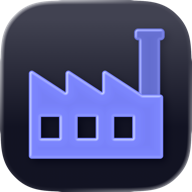
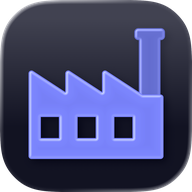
feat: show the factory glyph without its tile in the sidebar and sign-in
The sidebar and sign-in sit on the app's own background, so the tile
read as a box around the mark there. web/mark.png is the glass glyph on
a transparent background. ictool always draws the tile, so
scripts/render-icon.py renders the glyph on black and on white and takes
its alpha from the difference; the same script renders the tiled icons.

diff --git a/web/views/App.js b/web/views/App.js
@@ -184,7 +184,7 @@ function Shell() {
   const signOut = auth.value.mode === "oidc" ? "Sign out" : "Disconnect";
   const leave = () => dirty.value ? confirmAction({ title: "Discard unsaved changes?", message: "Your unsaved settings will be lost.", label: auth.value.mode === "oidc" ? "Discard and sign out" : "Discard and disconnect" }, () => actions.logout()) : actions.logout();
   const versionTag = version.value && html`<${Tag} tone="label" class="version" title="Version">${version.value}<//>`;
-  const wordmark = html`<a class="wordmark" href="/" onClick=${follow} aria-label="Factory: Now"><img src="/icon-192.png" width="24" height="24" alt="" /><span>Factory</span></a>`;
+  const wordmark = html`<a class="wordmark" href="/" onClick=${follow} aria-label="Factory: Now"><img src="/mark.png" width="24" height="24" alt="" /><span>Factory</span></a>`;
   const link = ([path, name, icon]) => html`<a key=${path} href=${path} title=${name} onClick=${(e) => { setMore(false); if (route.value.path === path && !location.search && !(e.metaKey || e.ctrlKey || e.shiftKey || e.button)) { e.preventDefault(); pageScroller().scrollTo({ top: 0, behavior: "smooth" }); } else follow(e); }} aria-current=${current(path) ? "page" : undefined}>
     <${Icon} name=${icon} /><span>${name}</span>${badge(path)}
   </a>`;

diff --git a/web/views/Login.js b/web/views/Login.js
@@ -12,7 +12,7 @@ export function Login() {
   };
   return html`<main class="login">
     <div>
-      <img src="/icon-192.png" width="40" height="40" alt="" />
+      <img src="/mark.png" width="40" height="40" alt="" />
       <h1>T3 Factory</h1>
       <p>${sso ? "Sign in with an authorized account to control the factory." : "Pair this device with your Mac to control the factory."}</p>
       ${sso

diff --git a/scripts/render-icon.py b/scripts/render-icon.py
@@ -1,0 +1,65 @@
+#!/usr/bin/env python3
+"""Render design/Factory.icon into design/icon.png and the web icons.
+
+Needs Xcode (for Icon Composer's ictool) and Pillow. The site's mark
+(web/mark.png) is the glyph without its tile: ictool always draws the tile,
+so the glyph is rendered on black and on white and its alpha is taken from
+the difference between the two.
+"""
+import json
+import shutil
+import subprocess
+import tempfile
+from pathlib import Path
+
+from PIL import Image
+
+ROOT = Path(__file__).resolve().parent.parent
+SOURCE = ROOT / "design/Factory.icon"
+ICTOOL = "/Applications/Xcode.app/Contents/Applications/Icon Composer.app/Contents/Executables/ictool"
+SIZES = {"favicon.png": 64, "apple-touch-icon.png": 180, "icon-192.png": 192, "icon.png": 512}
+MARK_SIZE = 128  # the sign-in image is 40 px, so this covers 3x screens
+
+
+def render(document: Path, out: Path) -> Image.Image:
+    subprocess.run(
+        [ICTOOL, str(document), "--export-image", "--output-file", str(out), "--platform", "iOS",
+         "--rendition", "Default", "--width", "1024", "--height", "1024", "--scale", "1",
+         "--design-generation", "26"],
+        check=True, stdout=subprocess.DEVNULL,
+    )
+    return Image.open(out)
+
+
+def on_solid(tmp: Path, value: int) -> Image.Image:
+    document = tmp / f"on-{value}.icon"
+    shutil.copytree(SOURCE, document)
+    spec = json.loads((document / "icon.json").read_text())
+    spec["fill"] = {"solid": f"extended-srgb:{value},{value},{value},1"}
+    (document / "icon.json").write_text(json.dumps(spec))
+    return render(document, tmp / f"on-{value}.png").convert("RGB")
+
+
+def mark(tmp: Path) -> Image.Image:
+    black, white = on_solid(tmp, 0), on_solid(tmp, 1)
+    out = Image.new("RGBA", black.size)
+    b, w, o = black.load(), white.load(), out.load()
+    width, height = black.size
+    margin = 120  # the tile's rim highlight is drawn on both renders; keep only the glyph inside it
+    for y in range(margin, height - margin):
+        for x in range(margin, width - margin):
+            alpha = 255 - max(0, *(wc - bc for wc, bc in zip(w[x, y], b[x, y])))
+            if alpha > 0:
+                o[x, y] = (*(min(255, c * 255 // alpha) for c in b[x, y]), alpha)
+    out = out.crop(out.getbbox())
+    side = max(out.size)
+    square = Image.new("RGBA", (side, side))
+    square.paste(out, ((side - out.width) // 2, (side - out.height) // 2))
+    return square.resize((MARK_SIZE, MARK_SIZE), Image.LANCZOS)
+
+
+with tempfile.TemporaryDirectory() as tmp:
+    tile = render(SOURCE, ROOT / "design/icon.png").convert("RGBA")
+    for name, size in SIZES.items():
+        tile.resize((size, size), Image.LANCZOS).save(ROOT / "web" / name)
+    mark(Path(tmp)).save(ROOT / "web/mark.png")

diff --git a/docs/development.md b/docs/development.md
@@ -49,7 +49,7 @@ Ticket metadata uses the existing `Meta`, green `Tag` and `zap` icon for native 
 
 The browser app is plain ES modules served by `src/web.ts`; there is no bundler or build step. The page shell is served with its stylesheet link versioned by the stylesheet's content hash (`/style.css?v=…`), so a browser that kept an old stylesheet cannot pair it with newer scripts. `src/web.ts` keeps each static file's bytes and a strong `ETag` (a SHA-256 of the content) in memory, refreshed when the file's mtime or size changes, so an unchanged file is never read from disk twice. A request whose `If-None-Match` matches the tag gets a 304 with no body; the comparison is weak, as RFC 9110 requires, so a proxy that sends the tag back as `W/"…"` still matches. Caddy's `encode` suffixes the tag with the encoding and strips it again on the way in. App files keep `Cache-Control: no-cache`, so the browser revalidates every load and gets a 304; `vendor/` and `fonts/` keep `max-age=86400`. Compression is the proxy's job: the Node server has none (see [Web access](web-access.md#https-and-dns)). Preact, signals, and htm live in `web/vendor/` with their imports rewritten to relative paths, so the page needs no import map. The same script writes `web/vendor/icons.js` with the provider glyphs from `@lobehub/icons-static-svg` and the pull request and action glyphs from `@primer/octicons` as path data. Buttons are icon-only wherever the action is routine: `Button` takes an `icon` name and a `label` that becomes the accessible name and tooltip, and `More` is the arrow link from a section to its full page. Add a glyph to `scripts/vendor-web.ts` rather than inlining an SVG. After changing those versions in `package.json`, run `npm run vendor:web` and commit the result. The fonts (Geist for text and titles, Geist Mono for keys and code) are bundled in `web/fonts/` with their OFL licence files, so the installed app works offline and requests no font from another origin. Colours are CSS variables set by `web/lib/theme.js`; `web/lib/themes.js` is generated from a T3 Code checkout by `npm run vendor:themes -- <path>` and holds T3 Code's palettes, so the Theme picker offers the same themes as T3 Code in light and dark.
 
-The app mark is the indigo glass factory, its windows cut out, on a dark tile in the Icon Composer document `design/Factory.icon`, with its 1024 px render in `design/icon.png`. Render it with Icon Composer's `ictool` (inside Xcode), platform `iOS`, rendition `Default`, scale `1`, design generation `26`, then scale that render to `web/favicon.png` (64 px), `web/apple-touch-icon.png` (180 px), `web/icon-192.png` (192 px, also the sidebar and sign-in image) and `web/icon.png` (512 px).
+The app mark is the indigo glass factory, its windows cut out, on a dark tile: the Icon Composer document `design/Factory.icon`, with its 1024 px render in `design/icon.png`. `python3 scripts/render-icon.py` (Xcode and Pillow) renders it and writes `web/favicon.png` (64 px), `web/apple-touch-icon.png` (180 px), `web/icon-192.png` (192 px) and `web/icon.png` (512 px) with the tile, and `web/mark.png`, the glyph alone on a transparent background, which the sidebar wordmark and the sign-in page show.
 
 | Directory | Responsibility |
 | --- | --- |
